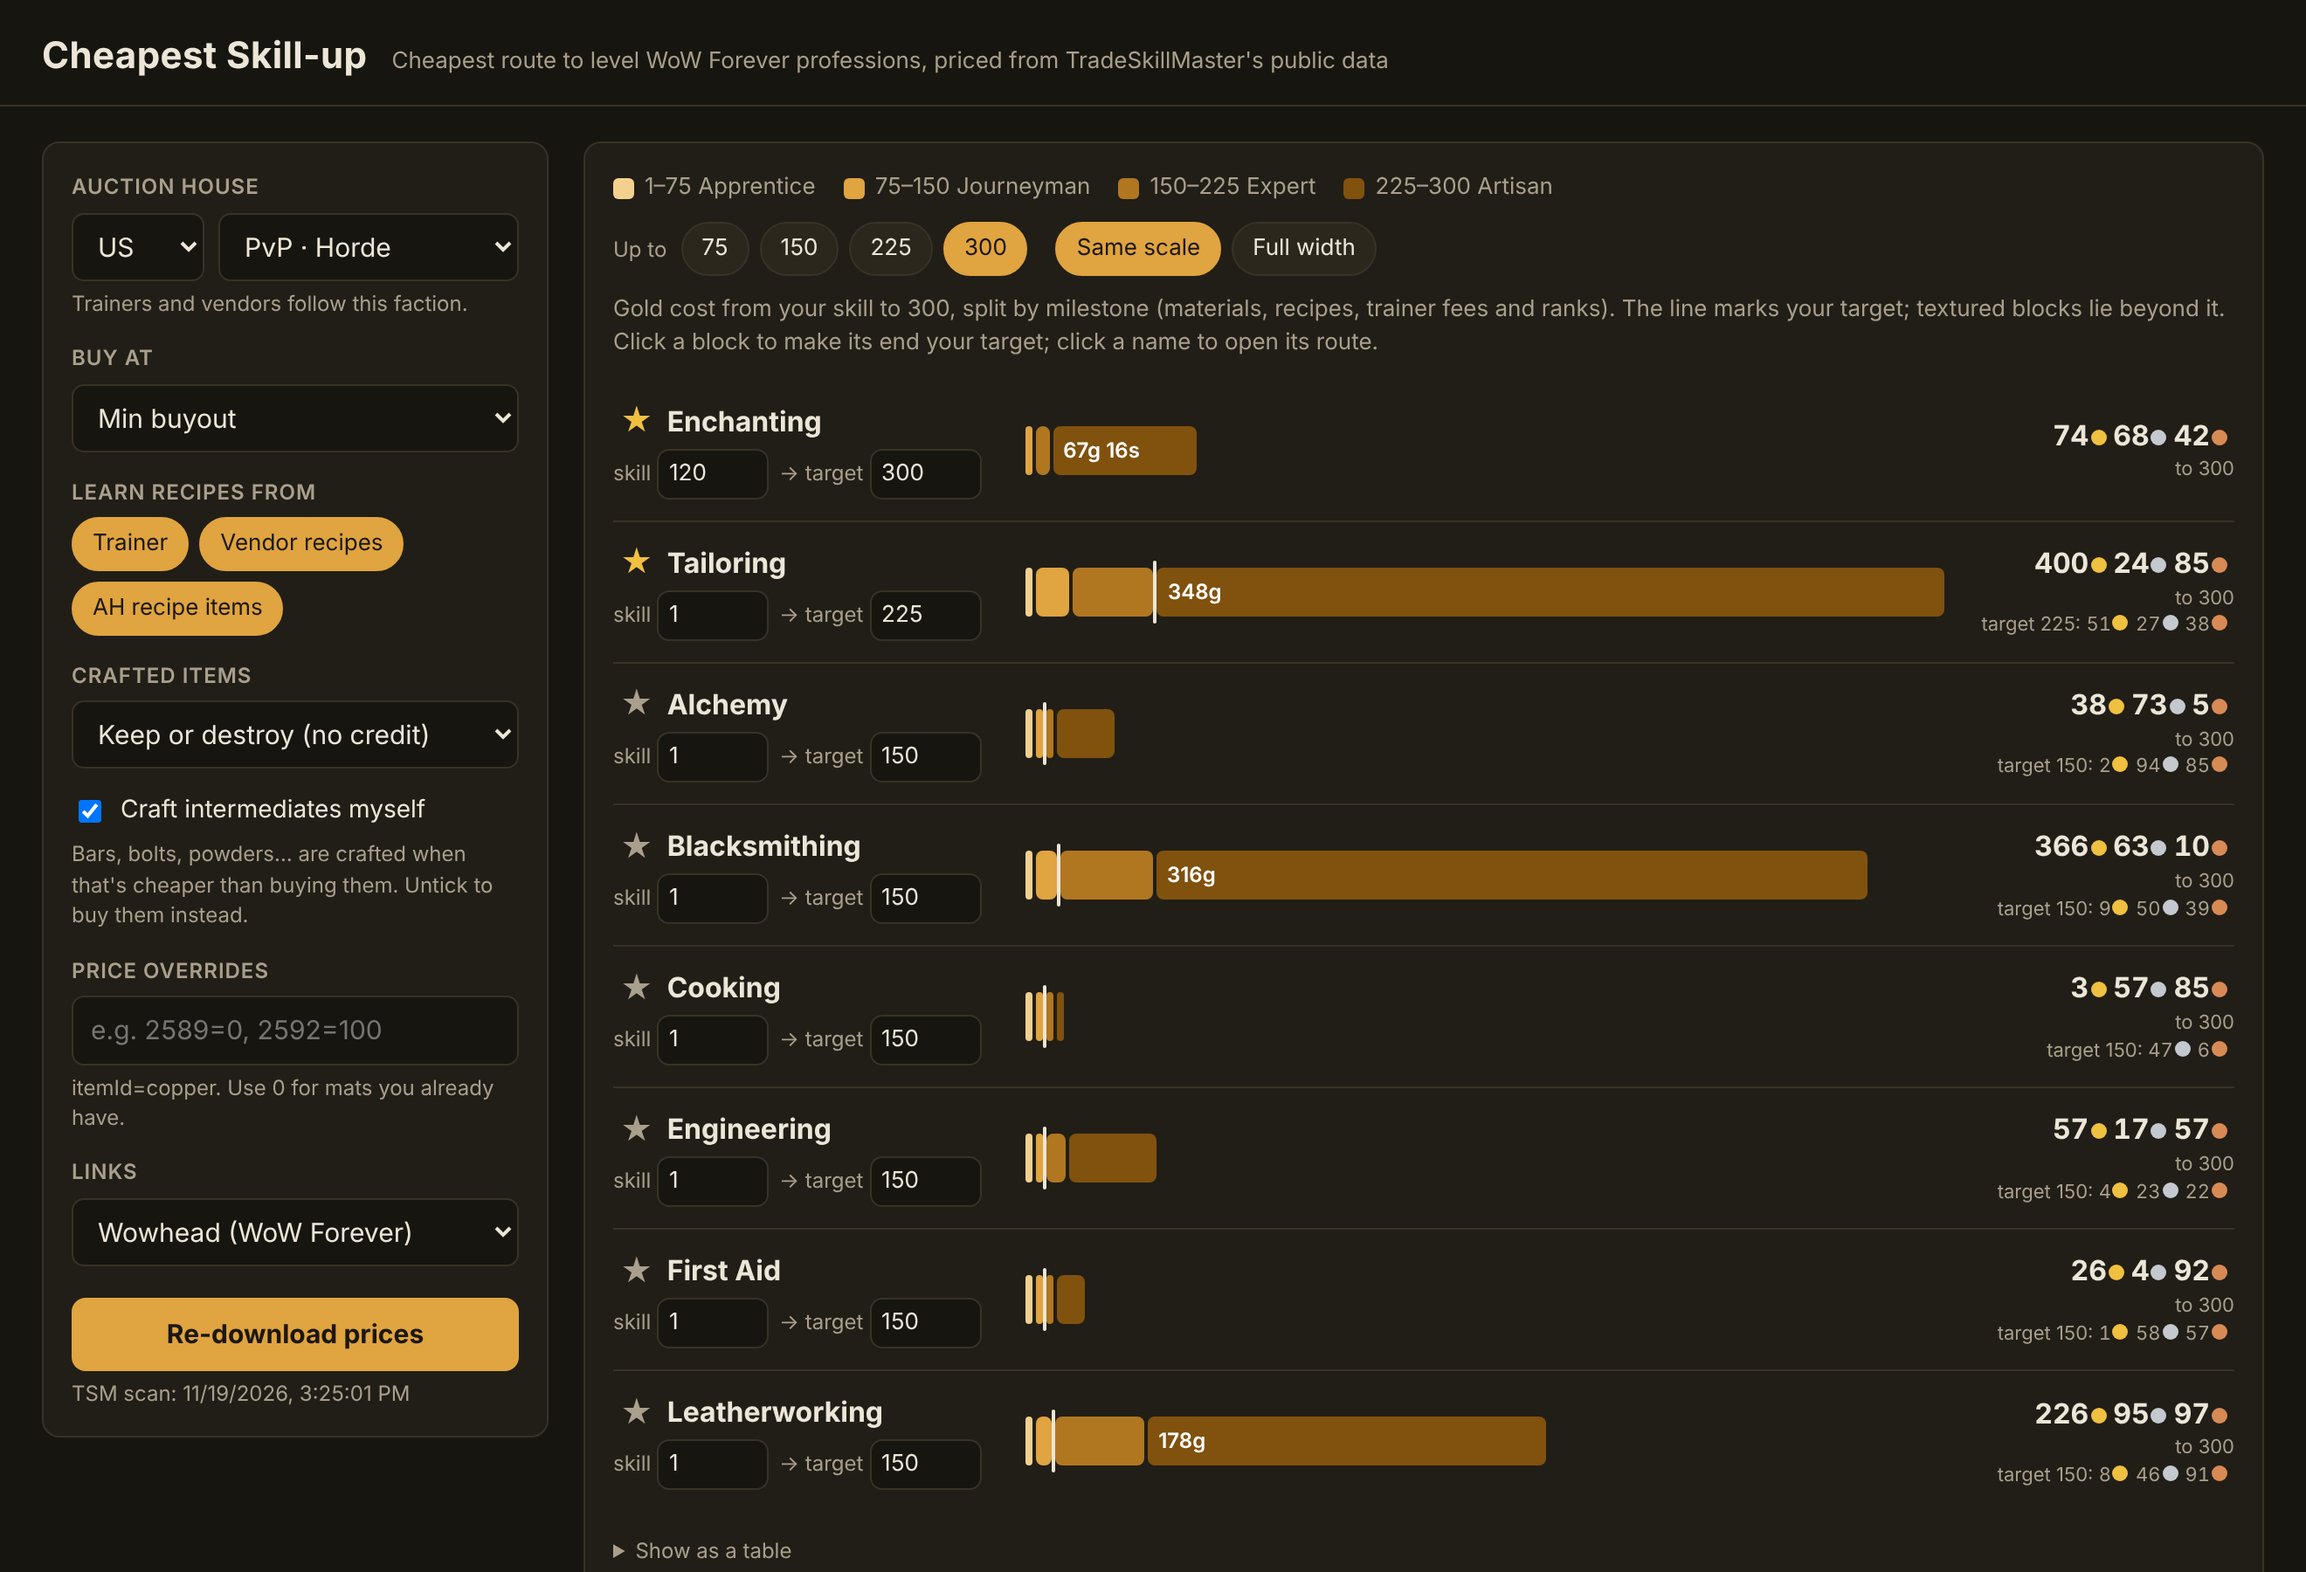
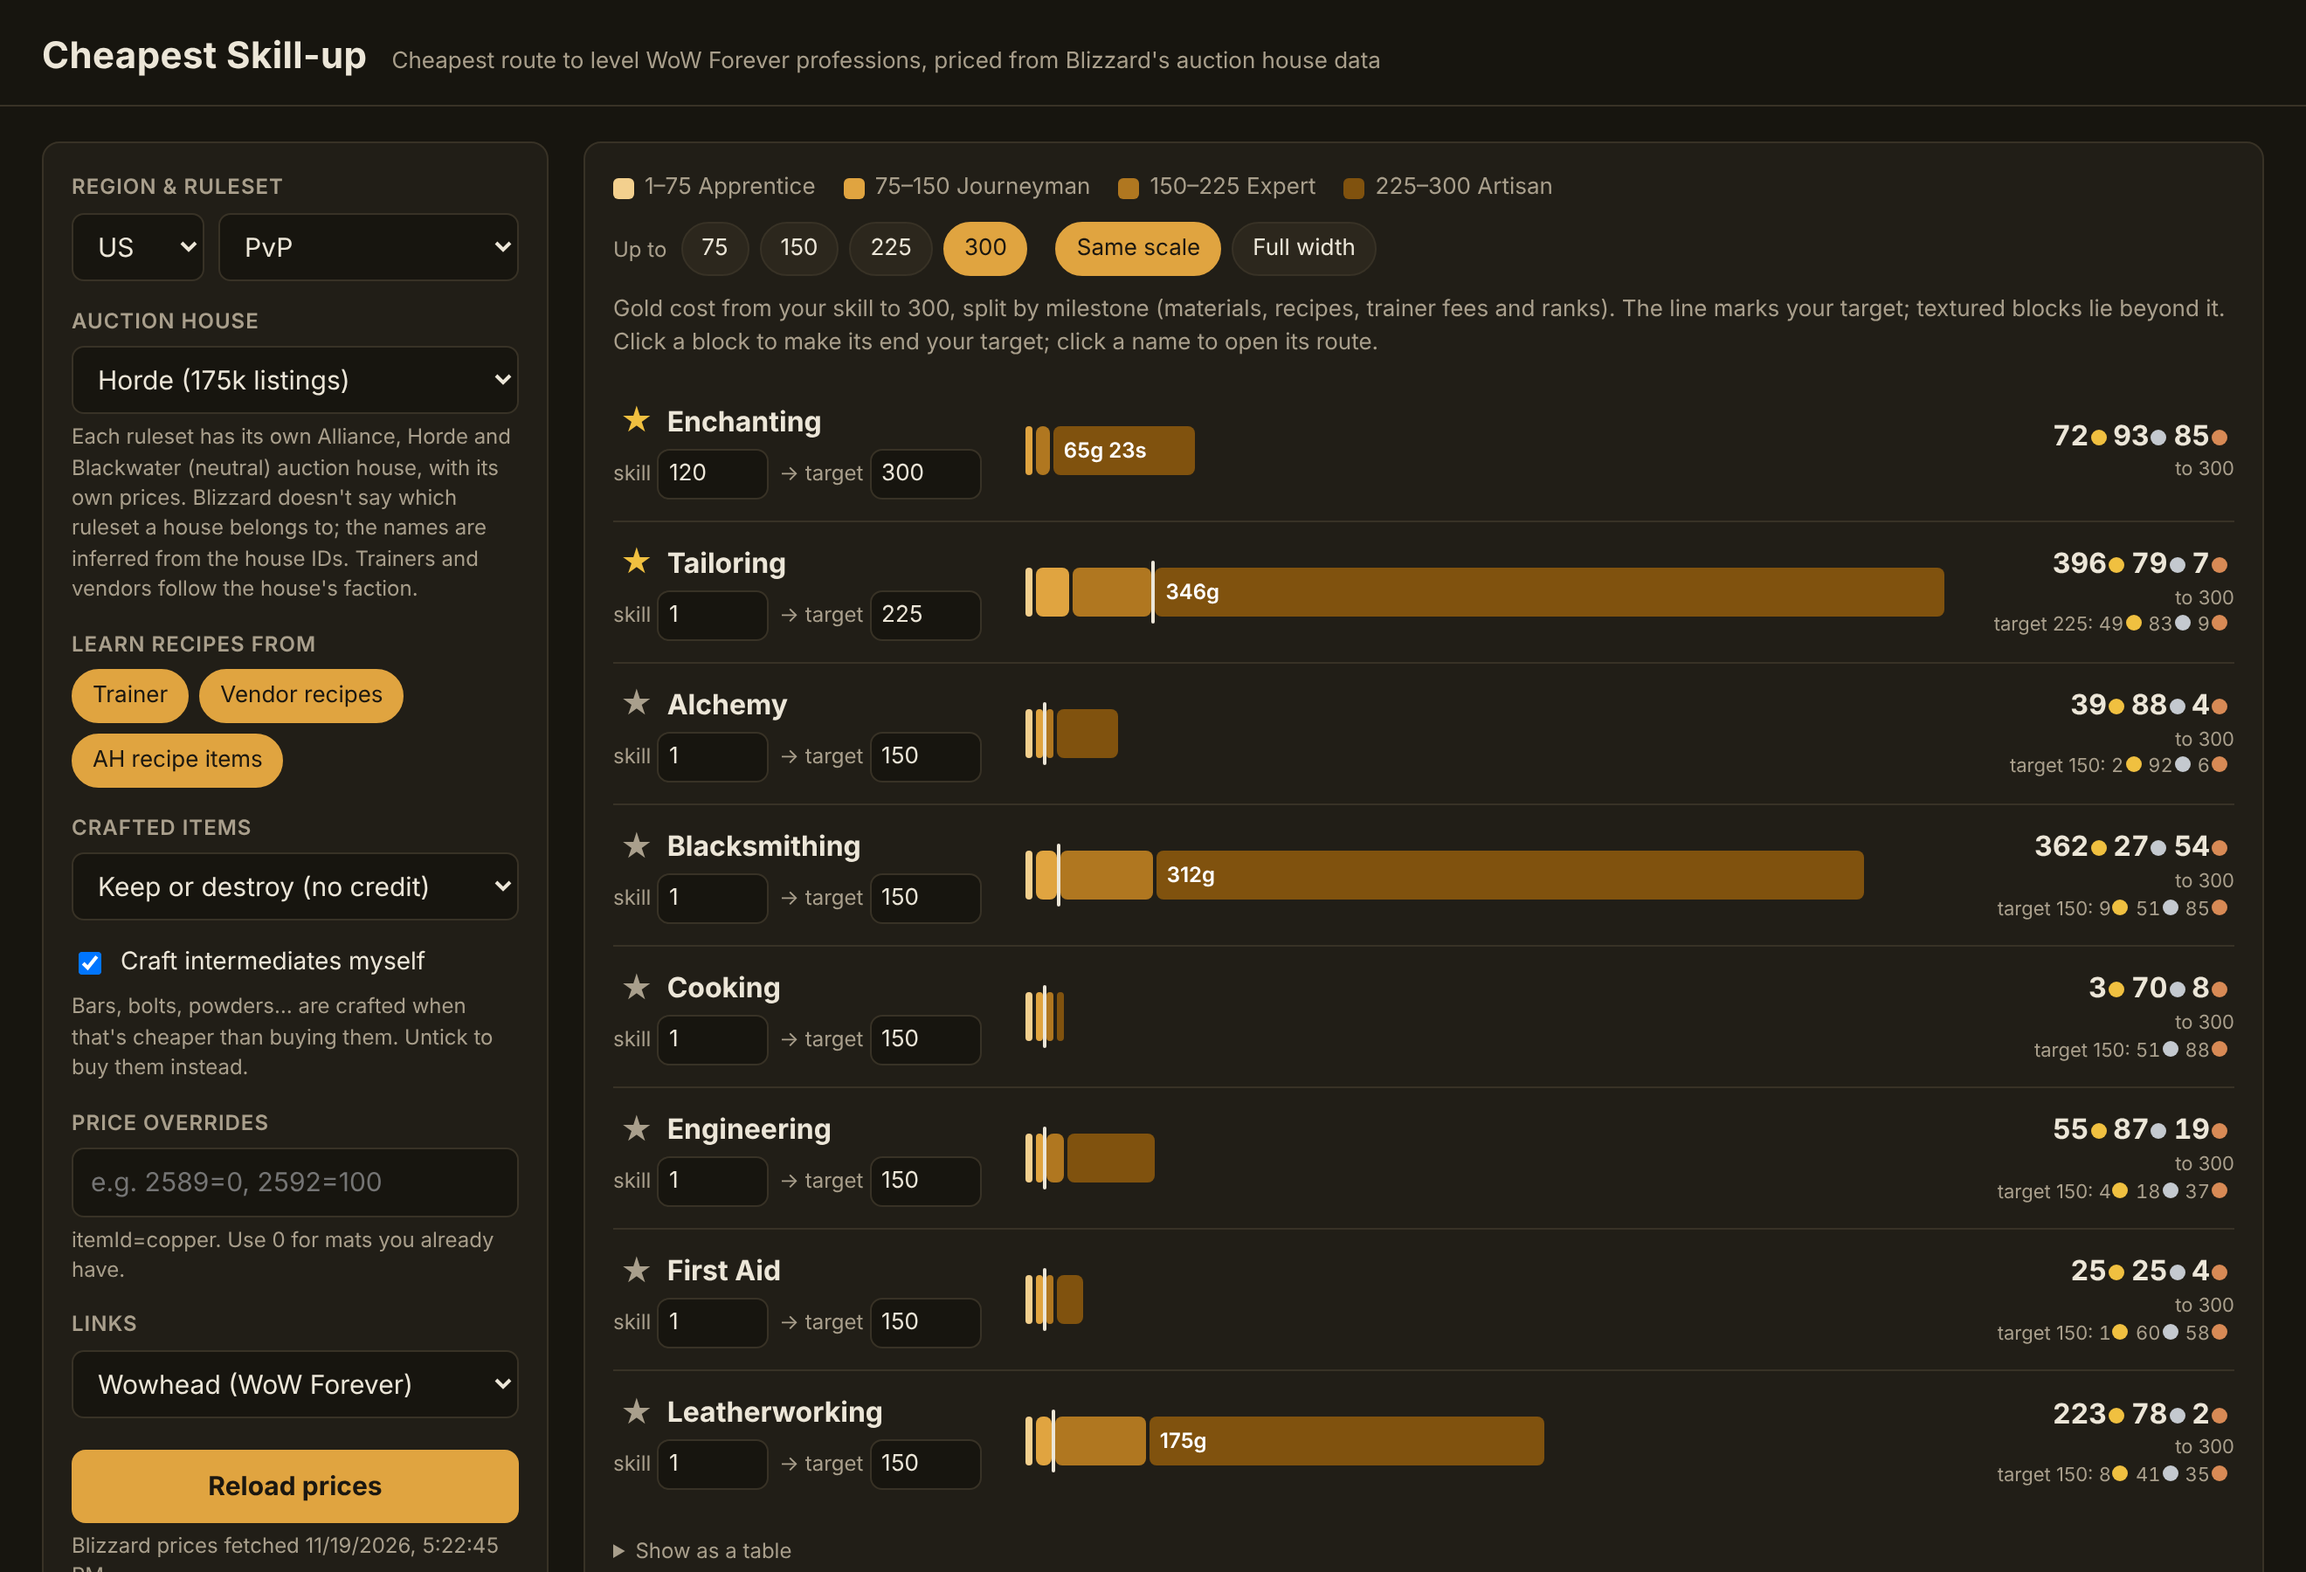
Retake the README screenshots from the live site with real prices
Claude-Session: https://claude.ai/code/session_01TMo8f5YZQR2pyn6DoGXvyF

diff --git a/README.md b/README.md
@@ -23,8 +23,7 @@ and the planner runs in your browser.
 |---|---|
 | ![Dark mode overview](docs/images/overview-dark.png) | ![Phone](docs/images/phone.png) |
 
-The screenshots come from the earlier local app; the site looks the same apart from the auction house
-picker.
+Screenshots from the live site (US, PvP, Horde prices on 19 Nov 2026).
 
 ## Using the site
 
